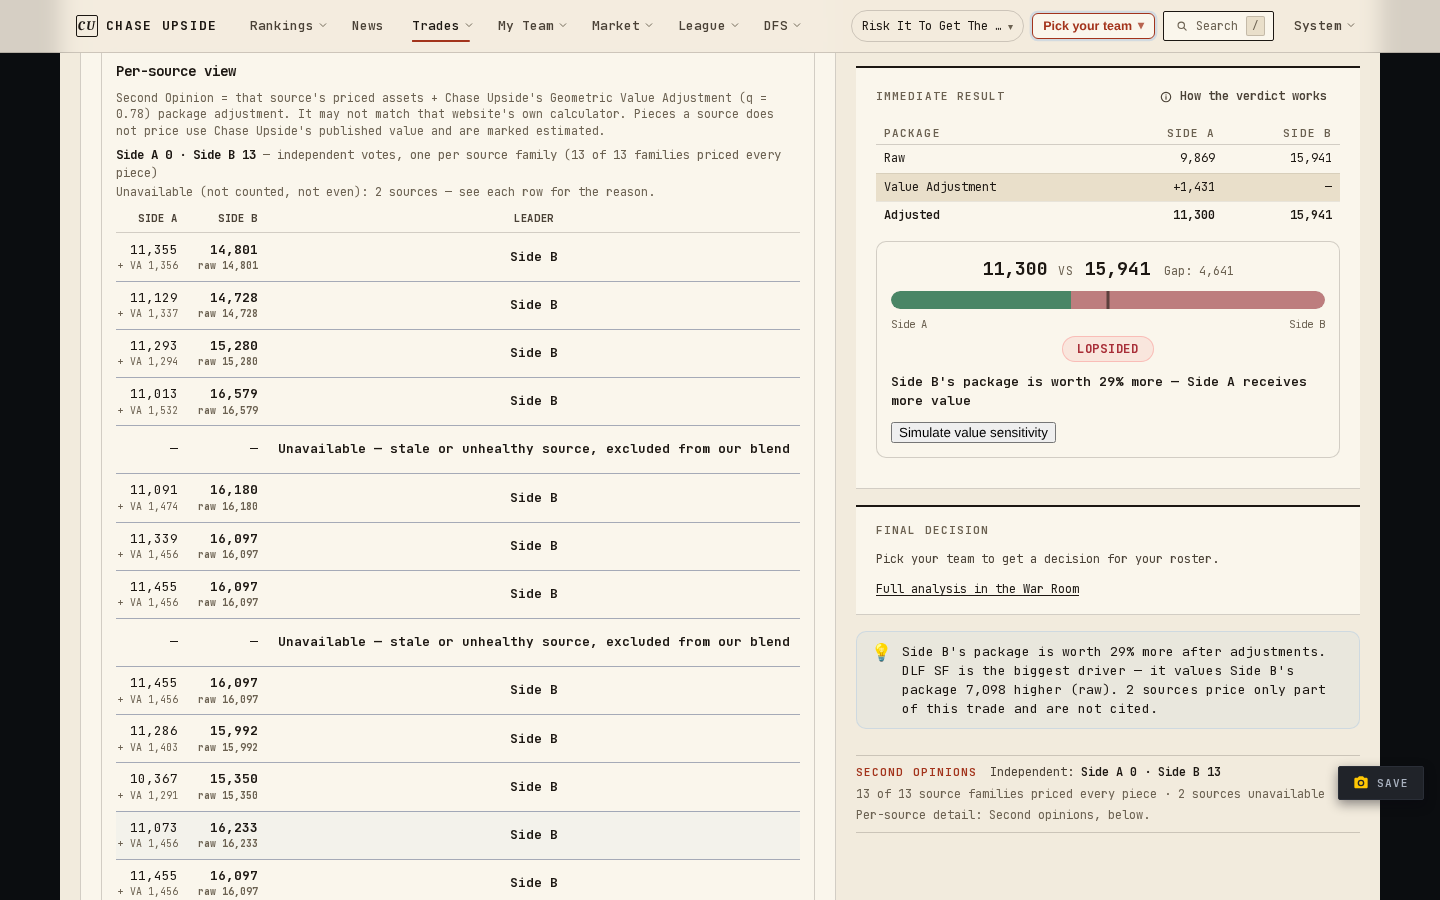
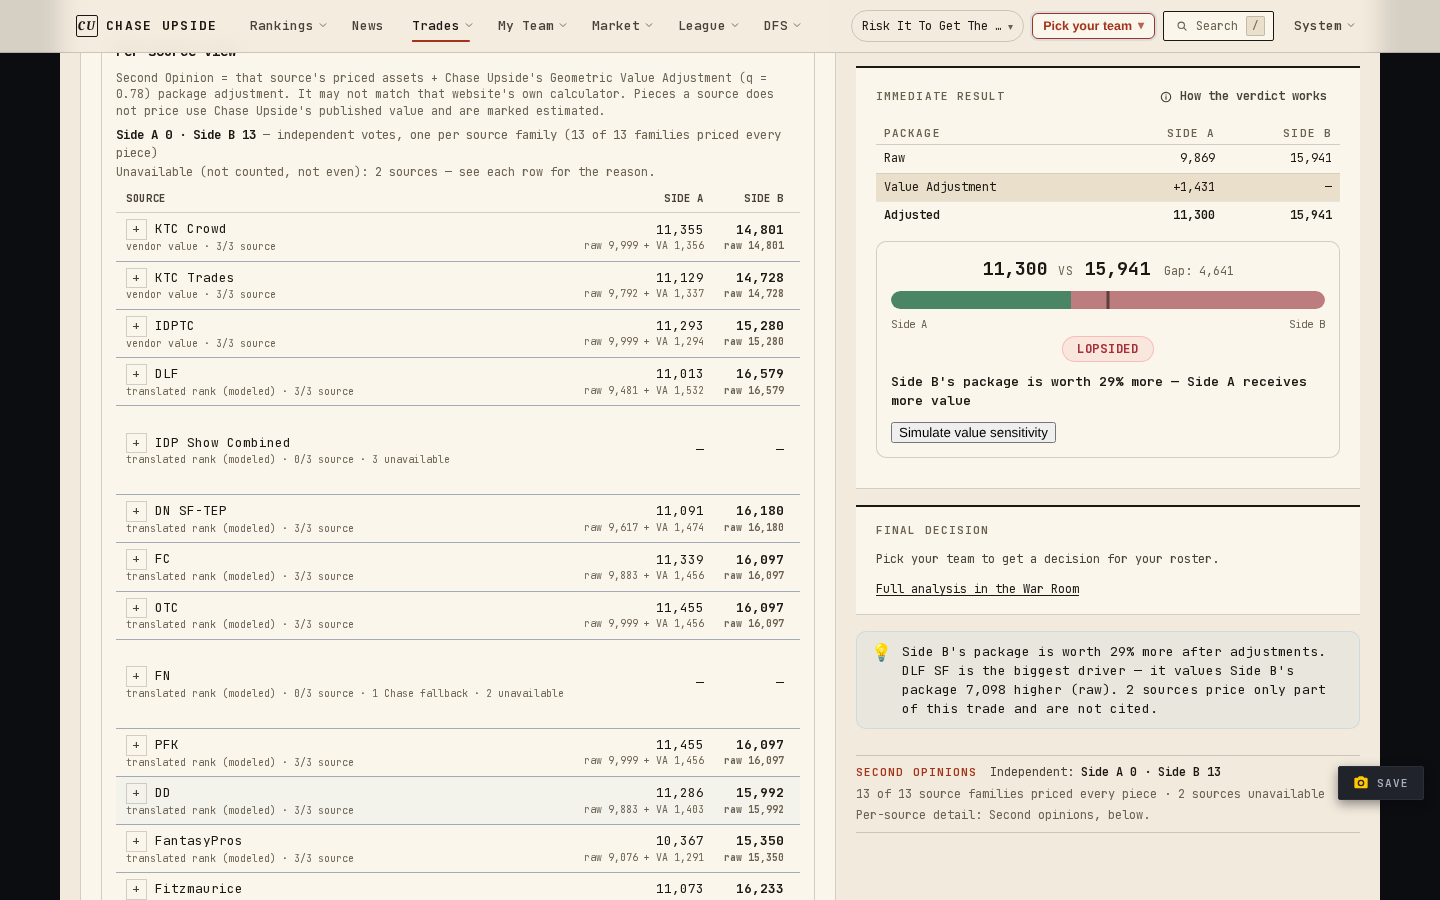
fix(trade): Unavailable reason wraps in the per-source table; TC-B2/D2 gates and evidence
Claude-Session: https://claude.ai/code/session_014i32om8NBcCJA9qgHBoHLi

diff --git a/frontend/components/trade/TradeSourceBreakdown.jsx b/frontend/components/trade/TradeSourceBreakdown.jsx
@@ -56,7 +56,14 @@ function stateLabel(opinion, sideLabels) {
         Unavailable —{" "}
         <span
           className="muted"
-          style={{ display: "block", fontSize: "0.62rem", fontWeight: 400, maxWidth: "14rem", margin: "0 auto" }}
+          style={{
+            display: "block",
+            fontSize: "0.62rem",
+            fontWeight: 400,
+            maxWidth: "14rem",
+            margin: "0 auto",
+            whiteSpace: "normal",
+          }}
         >
           {(opinion.unavailableReasons || [null]).map(unavailableReasonText).join("; ")}
         </span>

diff --git a/docs/trade/TRADE_CALCULATOR_COMPLETION_WORKSTREAM.md b/docs/trade/TRADE_CALCULATOR_COMPLETION_WORKSTREAM.md
@@ -651,13 +651,33 @@ shell-owned (UX audit §2.1 row 18) and belongs to the shell lane.
 
 ### Bundle
 
-`/trade` 77.9 → 81.8 KB of 93 KB (11.2 KB headroom); every new panel is `React.lazy` (`dyn`, never `next/dynamic`).
+`/trade` 77.9 → 82.2 KB of 93 KB (10.8 KB headroom); every new panel is `React.lazy` (`dyn`, never `next/dynamic`).
 `/league` 49.8 KB before and after (the train head is already at 49.8; this batch adds nothing to it). `/trades`
-23.6 → 24.5 KB of 26; `/arbitrage` 76.0 → 77.3 KB of 82.
+23.6 → 25.0 KB of 26; `/arbitrage` 76.0 → 77.3 KB of 82.
 
 ### Gates run on the TC-B2/D2 head (2026-10-18)
 
-GATES-PLACEHOLDER
+- `format_python_changes.sh`: GREEN (Ruff 0.6.9). `check_decision_coercions.py`: "clean: no new coercions, no stale
+  allowances in the files this change touches." (one new `|| 0` in `multiTeamNetSummary` was caught on the first
+  commit and fixed: an unknown net stays unknown). `check_planning_integrity.py` and
+  `check_product_plan_governance.py`: clean.
+- `pytest tests/trade tests/api/test_trade_desk_endpoint.py`: 2098 passed (48 subtests).
+- Full `npx vitest run __tests__`: 4274 / 4275. The one failure was `game-day-panel.test.jsx` (load-sensitive, not
+  touched; 64 / 64 alone), the same test D1 recorded.
+- `build:nocheck` + `check:bundles`: all 17 budgeted pages under budget — `/trade` 82.2 KB of 93, `/arbitrage` 77.3 of
+  82, `/league` 49.8 of 50 (unchanged from the train head), `/trades` 25.0 of 26.
+- Real-stack Playwright (seeded snapshot, Chromium, desktop-1366 + mobile-chromium): `trade-tcd2` (new),
+  `trade-war-room`, `trade-next-actions`, `mobile-trade-quantity`, `trade-screenshot-import`, `trade-ktc-import`,
+  `mobile-pinned-overlap`, `journey-trade` — 29 passed, 7 skipped (gated to the other project by the specs
+  themselves), 0 failed. The specs add assets through one helper (`tests/e2e/helpers/trade-builder.js`) that drives
+  the inline search on desktop and the bottom sheet on phones; the production-auth specs that add assets or press
+  Simulate impact were moved onto it too (not run here: they target production).
+- Before/after screenshots at 1440x900 and 375x812, plus measurements, in `docs/trade/tc-d2-2026-10-18/`
+  (before = the train head, after = this branch, same trade). Found and fixed while capturing: at 375 px a 3-team
+  trade's routed rows clipped the player name to nothing (the destination select took the row; UI contract §6) and a
+  balancer line pushed the page 48 px sideways; both now wrap. The Second Opinions shots show two real sources
+  (`idpShowCombined`, `fantasyNavigatorSf`) reading "Unavailable — stale or unhealthy source, excluded from our
+  blend" on the seeded board, where they used to be scored with our values.
 
 ## Coordination with in-flight work
 
